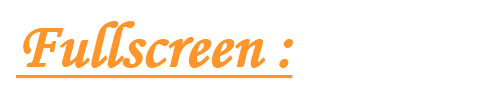
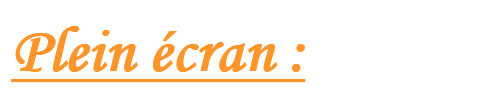
ORTHOGRAPHE

Changed region(s): [[0.03, 0.21, 0.63, 0.72], [0.0, 0.75, 0.63, 0.84]]

diff --git a/The Last Trial/The Last Trial/Map.cs b/The Last Trial/The Last Trial/Map.cs
@@ -79,8 +79,8 @@ namespace The_Last_Trial
                 firstHide = true;
                 parallax = true;
 
-                pnj[0] = new PNJ(new Vector2(600, 600), 42, "Hi. Good luck, have fun !");
-                pnj[1] = new PNJ(new Vector2(3900, 500), 42, "Sorry Mario, your princess\n is in another castle...");
+                pnj[0] = new PNJ(new Vector2(600, 600), 42, "Bon courage pour votre quete !");
+                pnj[1] = new PNJ(new Vector2(3900, 500), 42, "Felicitations, appuyez sur\n     Entree pour passer\n     au niveau suivant.");
 
                 return 6;
             }
@@ -100,7 +100,7 @@ namespace The_Last_Trial
                 firstHide = false;
                 parallax = false;
 
-                pnj[0] = new PNJ(new Vector2(2876, 500), 42, "This is the end of this world...");
+                pnj[0] = new PNJ(new Vector2(2876, 500), 42, "C'est la fin de ce monde...");
 
                 return 6;
             }

diff --git a/The Last Trial/The Last Trial/LoadingMenu.cs b/The Last Trial/The Last Trial/LoadingMenu.cs
@@ -607,7 +607,7 @@ namespace The_Last_Trial
                 {
                     menuObject[6].Draw(sb);
                 }
-                sb.DrawString(menuFont, "Perso " + (state - 4) + ", choississez une classe", new Vector2(200, 350), Color.DarkKhaki);
+                sb.DrawString(menuFont, "Joueur " + (state - 4) + ", choisissez une classe", new Vector2(200, 350), Color.DarkKhaki);
                 menuObject[1].Draw(sb);
             }
             sb.End();

diff --git a/The Last Trial/The Last Trial/PNJ.cs b/The Last Trial/The Last Trial/PNJ.cs
@@ -77,7 +77,7 @@ namespace The_Last_Trial
             sb.Draw(objet, position, Color.White);
             if (parler)
             {
-                sb.DrawString(textFont, message, new Vector2(position.X - 170, position.Y - 60), Color.DeepPink);
+                sb.DrawString(textFont, message, new Vector2(position.X - 170, position.Y - 65), Color.DeepPink);
             }
         }
 
